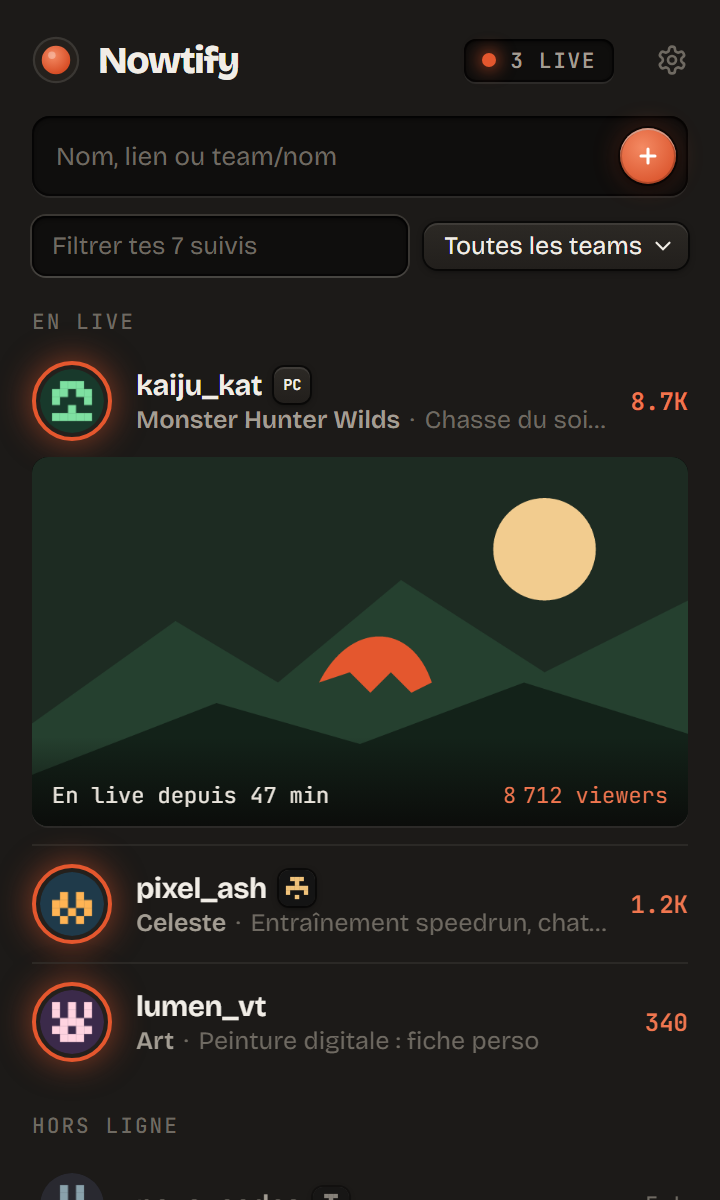
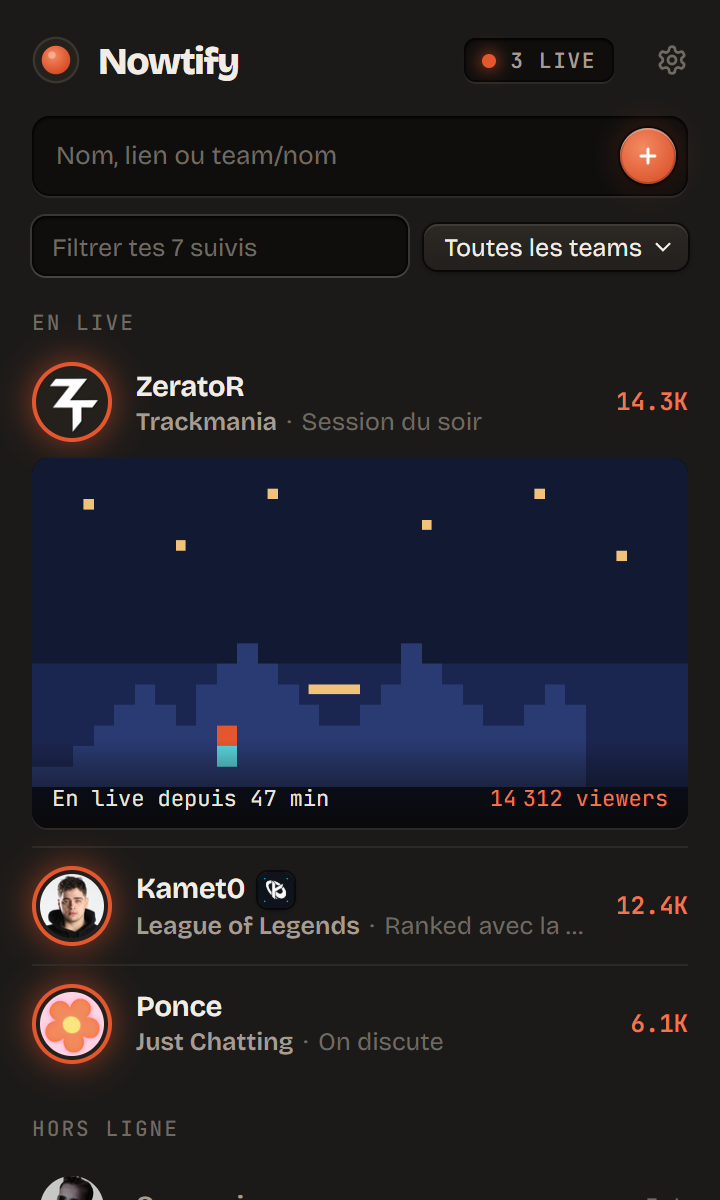
📝 docs: show real streamers in the README screenshots

diff --git a/README.md b/README.md
@@ -13,6 +13,8 @@ Une notification sur ton bureau dès qu'un de tes streamers Twitch lance son liv
 
 <img src="docs/popup.png" width="360" alt="La popup de Nowtify avec trois streamers en live et l'aperçu d'un stream" />
 
+<sub>Les streamers des captures sont de vrais exemples, sans lien avec Nowtify.</sub>
+
 </div>
 
 <br />
